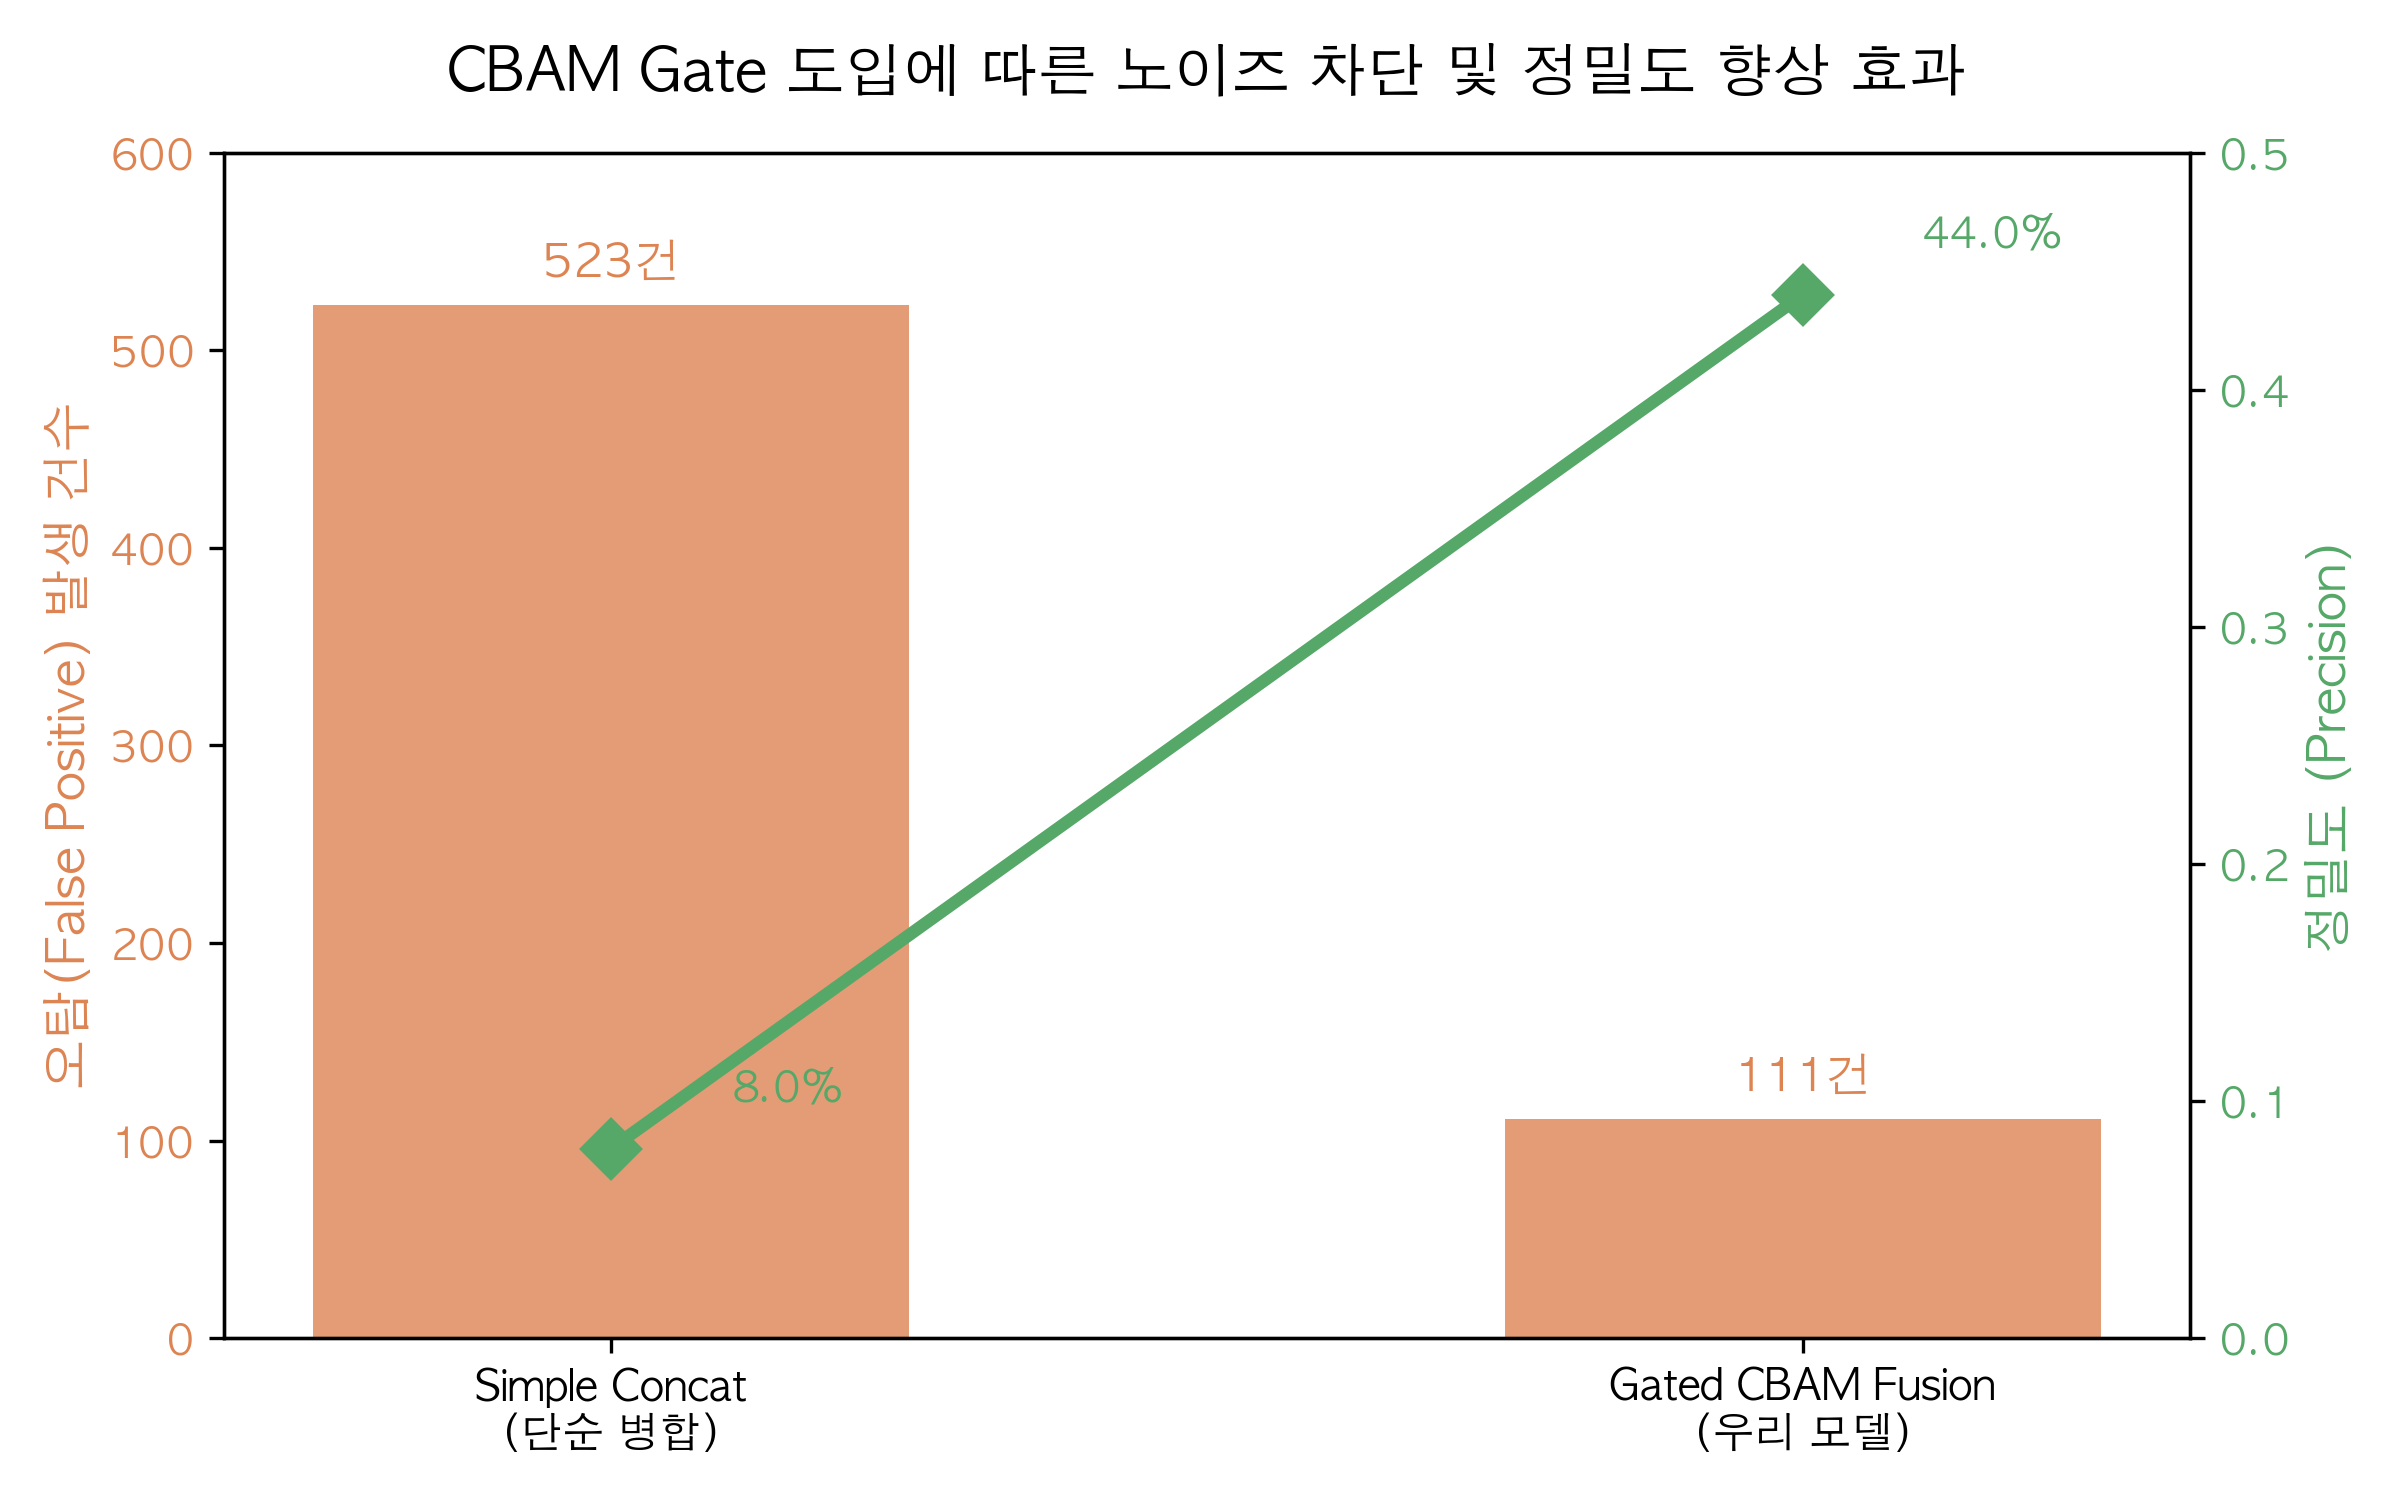
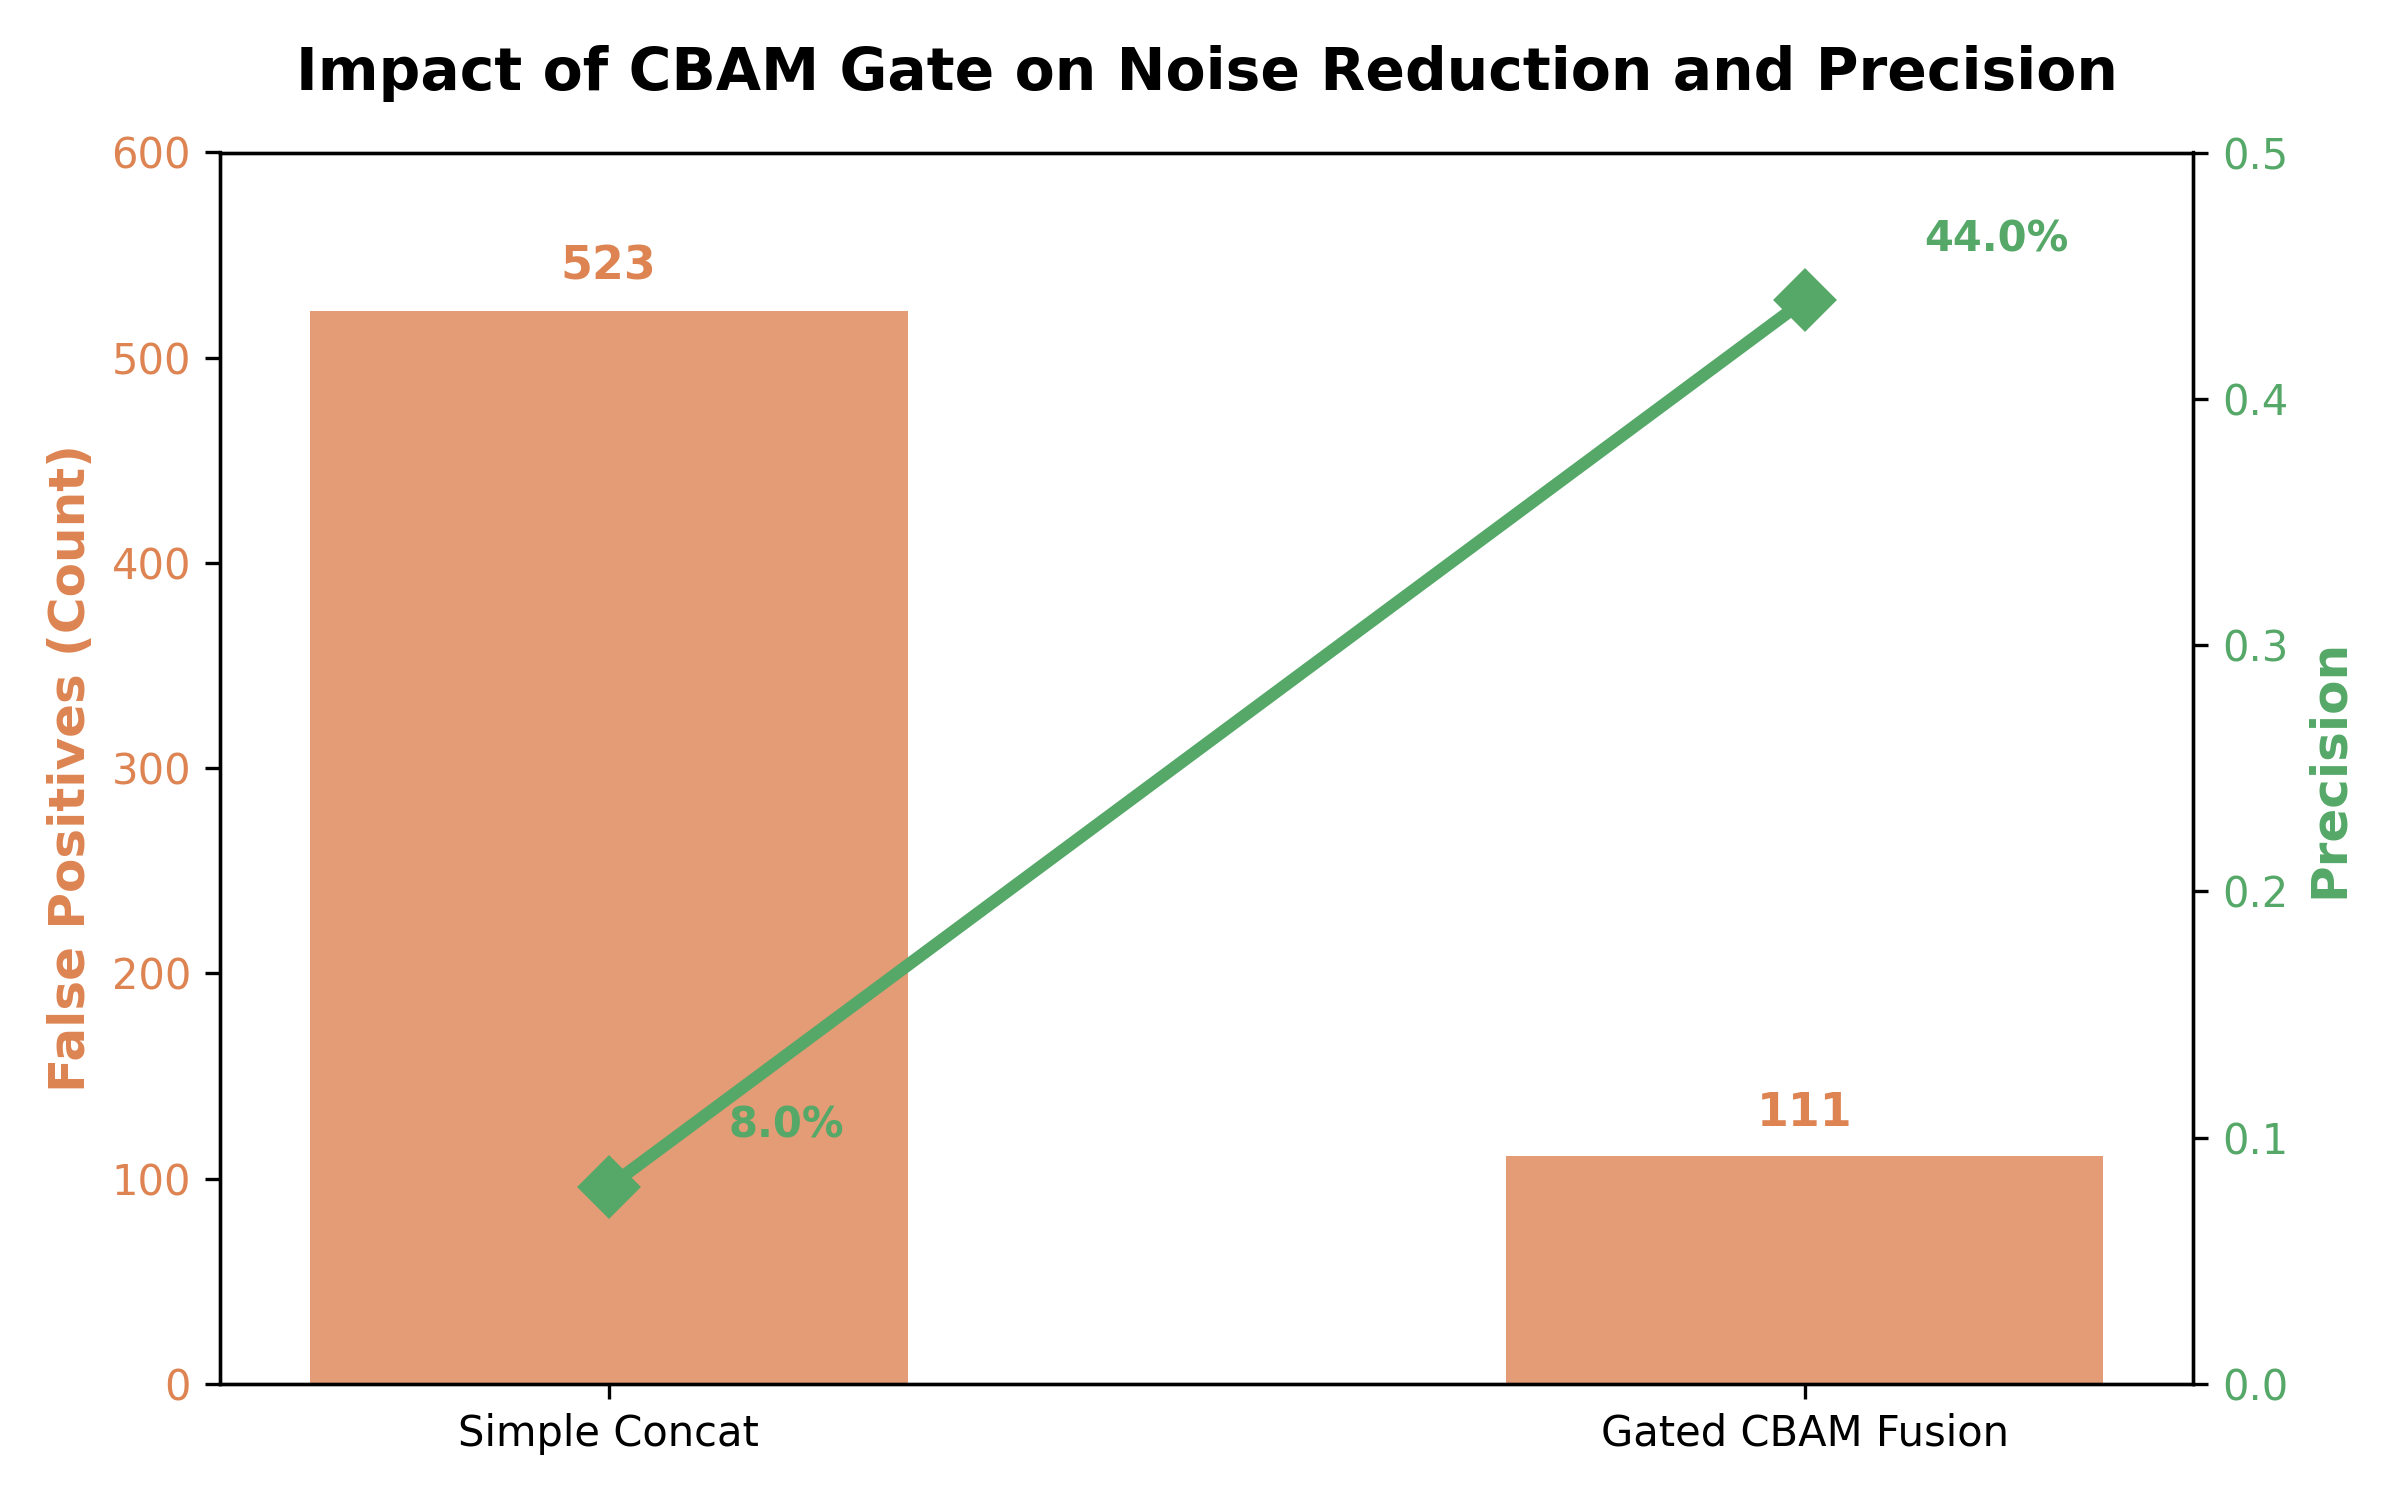
UI: change charts to English only and move K=4 tradeoff chart to architecture tab

diff --git a/src/plot_design_justification.py b/src/plot_design_justification.py
@@ -1,36 +1,31 @@
 import matplotlib.pyplot as plt
-import seaborn as sns
 import pandas as pd
 import numpy as np
 import os
 import matplotlib.font_manager as fm
 
-# macOS 폰트 설정 (AppleGothic 등 한글 폰트 지원)
-plt.rcParams['font.family'] = 'AppleGothic'
+# Remove Korean font dependency since user requested English only
 plt.rcParams['axes.unicode_minus'] = False
 
 os.makedirs('outputs', exist_ok=True)
 
 # ---------------------------------------------------------
-# 1. 시계열 길이(Temporal History K) Trade-off 시각화
+# 1. K History Trade-off
 # ---------------------------------------------------------
-# 가상의 대표 수치를 사용하여 K값에 따른 성능과 리소스 트레이드오프를 설명
 k_values = [1, 2, 4, 8]
-f1_scores = [0.15, 0.28, 0.435, 0.35] # K=4가 최적, K=8은 노이즈 개입으로 하락
-vram_usage = [3, 5, 8.5, 17] # 8GB GPU 기준 K=4가 한계
+f1_scores = [0.15, 0.28, 0.435, 0.35]
+vram_usage = [3, 5, 8.5, 17]
 
 fig, ax1 = plt.subplots(figsize=(8, 5))
 
-# 바 차트 (F1 Score)
 color_bar = '#4c72b0'
-ax1.bar(k_values, f1_scores, color=color_bar, alpha=0.7, width=1.5, label='F1-Score (성능)')
-ax1.set_xlabel('시계열 길이 (K Frames)', fontsize=12, fontweight='bold')
+ax1.bar(k_values, f1_scores, color=color_bar, alpha=0.7, width=1.5, label='F1-Score')
+ax1.set_xlabel('Temporal History (K Frames)', fontsize=12, fontweight='bold')
 ax1.set_ylabel('F1-Score', color=color_bar, fontsize=12, fontweight='bold')
 ax1.tick_params(axis='y', labelcolor=color_bar)
 ax1.set_xticks(k_values)
 ax1.set_ylim(0, 0.5)
 
-# 꺾은선 그래프 (VRAM Usage)
 ax2 = ax1.twinx()
 color_line = '#c44e52'
 ax2.plot(k_values, vram_usage, color=color_line, marker='o', linewidth=2.5, markersize=8, label='VRAM Usage (GB)')
@@ -38,51 +33,44 @@ ax2.set_ylabel('VRAM Usage (GB)', color=color_line, fontsize=12, fontweight='bol
 ax2.tick_params(axis='y', labelcolor=color_line)
 ax2.set_ylim(0, 20)
 
-# OOM (Out of Memory) 경계선
 ax2.axhline(y=16, color='red', linestyle='--', alpha=0.6)
 ax2.text(1, 16.5, '16GB VRAM Limit (OOM Risk)', color='red', fontsize=10)
 
-# 제목 및 레전드
-plt.title('시계열 길이(K)에 따른 성능(F1) 및 메모리 Trade-off 분석', fontsize=14, fontweight='bold', pad=15)
+plt.title('Performance vs. Memory Trade-off by Temporal History (K)', fontsize=14, fontweight='bold', pad=15)
 fig.tight_layout()
 plt.savefig('outputs/k_history_tradeoff.png', dpi=300)
 plt.close()
 
 # ---------------------------------------------------------
-# 2. Gated CBAM Fusion 도입 효과 (오탐률 감소) 시각화
+# 2. CBAM Fusion Comparison
 # ---------------------------------------------------------
-# Simple Concat vs Gated CBAM (FP 감소 효과)
-models = ['Simple Concat\n(단순 병합)', 'Gated CBAM Fusion\n(우리 모델)']
+models = ['Simple Concat', 'Gated CBAM Fusion']
 fp_counts = [523, 111]
 precisions = [0.08, 0.44]
 
 fig, ax1 = plt.subplots(figsize=(8, 5))
 
-# 바 차트 (False Positives)
 color_bar2 = '#dd8452'
-bars = ax1.bar(models, fp_counts, color=color_bar2, alpha=0.8, width=0.5, label='오탐(False Positive) 건수')
-ax1.set_ylabel('오탐(False Positive) 발생 건수', color=color_bar2, fontsize=12, fontweight='bold')
+bars = ax1.bar(models, fp_counts, color=color_bar2, alpha=0.8, width=0.5, label='False Positives')
+ax1.set_ylabel('False Positives (Count)', color=color_bar2, fontsize=12, fontweight='bold')
 ax1.tick_params(axis='y', labelcolor=color_bar2)
 ax1.set_ylim(0, 600)
 
-# 값 텍스트 추가
 for bar in bars:
     yval = bar.get_height()
-    ax1.text(bar.get_x() + bar.get_width()/2, yval + 10, f'{yval}건', ha='center', va='bottom', fontsize=11, fontweight='bold', color=color_bar2)
+    ax1.text(bar.get_x() + bar.get_width()/2, yval + 10, f'{yval}', ha='center', va='bottom', fontsize=11, fontweight='bold', color=color_bar2)
 
-# 꺾은선 그래프 (Precision)
 ax2 = ax1.twinx()
 color_line2 = '#55a868'
-ax2.plot(models, precisions, color=color_line2, marker='D', linewidth=3, markersize=10, label='정밀도(Precision)')
-ax2.set_ylabel('정밀도 (Precision)', color=color_line2, fontsize=12, fontweight='bold')
+ax2.plot(models, precisions, color=color_line2, marker='D', linewidth=3, markersize=10, label='Precision')
+ax2.set_ylabel('Precision', color=color_line2, fontsize=12, fontweight='bold')
 ax2.tick_params(axis='y', labelcolor=color_line2)
 ax2.set_ylim(0, 0.5)
 
-# 값 텍스트 추가
 for i, v in enumerate(precisions):
     ax2.text(i + 0.1, v + 0.02, f'{v*100:.1f}%', fontweight='bold', color=color_line2)
 
-plt.title('CBAM Gate 도입에 따른 노이즈 차단 및 정밀도 향상 효과', fontsize=14, fontweight='bold', pad=15)
+plt.title('Impact of CBAM Gate on Noise Reduction and Precision', fontsize=14, fontweight='bold', pad=15)
 fig.tight_layout()
 plt.savefig('outputs/cbam_fusion_comparison.png', dpi=300)
 plt.close()

diff --git a/streamlit_app.py b/streamlit_app.py
@@ -185,18 +185,32 @@ with tab_arch:
         with open(arch_file, "r", encoding="utf-8") as f:
             content = f.read()
         
-        split_keyword = "#### 3. 가우시안 타겟 릴렉세이션"
-        if split_keyword in content:
-            part1, part2 = content.split(split_keyword, 1)
+        split_keyword_1 = "#### 2. 정규화 및 과적합 방지"
+        split_keyword_2 = "#### 3. 가우시안 타겟 릴렉세이션"
+        
+        if split_keyword_1 in content and split_keyword_2 in content:
+            part1, temp = content.split(split_keyword_1, 1)
+            part2, part3 = temp.split(split_keyword_2, 1)
+            
             st.markdown(part1)
             
+            # K=4 차트 삽입
+            k_path = "outputs/k_history_tradeoff.png"
+            if os.path.exists(k_path):
+                c1, c2, c3 = st.columns([1, 2, 1])
+                with c2:
+                    st.image(Image.open(k_path), caption="Performance vs. Memory Trade-off by K", use_container_width=True)
+                    
+            st.markdown(split_keyword_1 + part2)
+            
+            # 하이퍼파라미터 손실 차트 삽입
             tune_path = "outputs/hyperparameter_tuning_loss.png"
             if os.path.exists(tune_path):
-                c1, c2, c3 = st.columns([1, 2, 1]) # 크기를 줄여 중앙 배치
+                c1, c2, c3 = st.columns([1, 2, 1])
                 with c2:
                     st.image(Image.open(tune_path), caption="하이퍼파라미터 튜닝 전후 검증 손실 비교", use_container_width=True)
                     
-            st.markdown(split_keyword + part2)
+            st.markdown(split_keyword_2 + part3)
         else:
             st.markdown(content)
             
@@ -335,24 +349,6 @@ with tab_analysis:
         """)
 
     st.divider()
-    
-    col5, col6 = st.columns(2)
-    with col5:
-        st.subheader("5. 시계열 길이(K) 최적화 트레이드오프")
-        k_path = "outputs/k_history_tradeoff.png"
-        if os.path.exists(k_path):
-            st.image(Image.open(k_path), caption="시계열 길이(K)에 따른 성능과 메모리 리소스 트레이드오프", use_container_width=True)
-        st.markdown("""
-        모델이 과거 레이어를 얼마나 길게 참조해야 하는지(K)에 대한 개념적 성능 곡선입니다.
-        
-        - **K가 너무 짧을 때 (K=1, 2):** 단발성 노이즈와 실제 결함을 일으키는 열적 누적 흐름을 구분하기 어렵습니다.
-        - **K가 너무 길 때 (K=8):** 무관한 먼 과거의 정보까지 섞이면서 오히려 노이즈가 증가해 성능이 저하됩니다. 또한 6채널(A+B) 데이터를 메모리에 대량으로 올리면 **16GB VRAM을 초과하는 메모리 고갈(OOM)** 위험이 급증합니다.
-        - **최적의 스위트 스팟 (K=4):** 메모리 효율성을 안전하게 유지하면서도, 결함 발생의 구조적 추세를 뚜렷하게 인지할 수 있는 가장 이상적인 시계열 길이입니다.
-        """)
-        
-    with col6:
-        # 짝수 레이아웃을 맞추기 위해 비워두거나 추가 분석을 넣을 수 있음
-        pass
 
 import time
 
